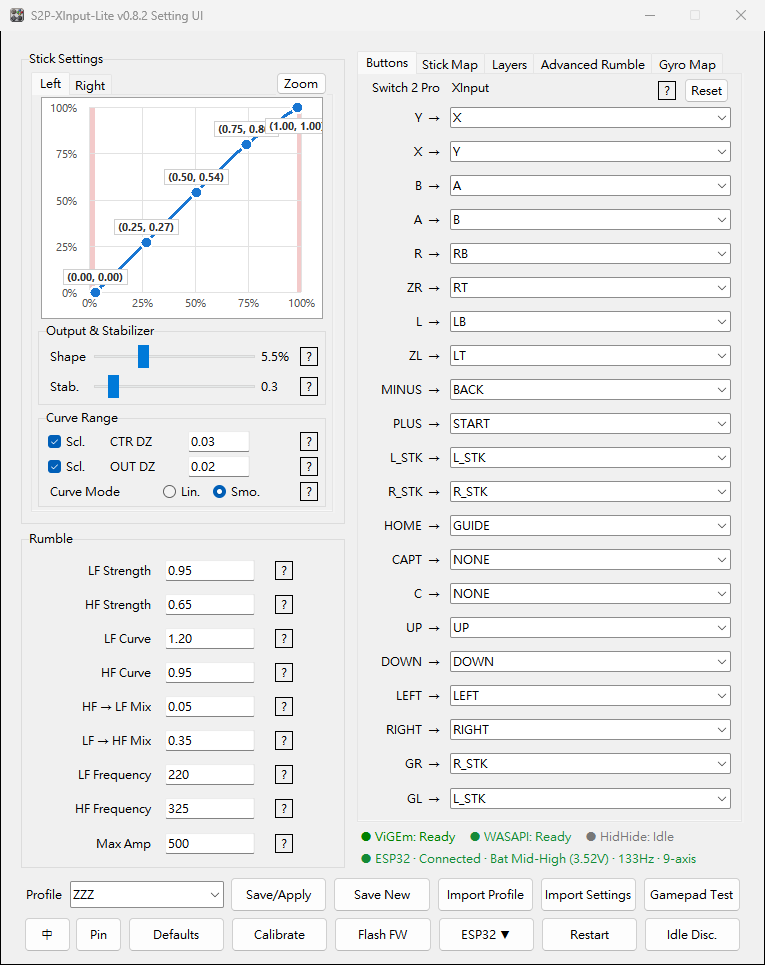
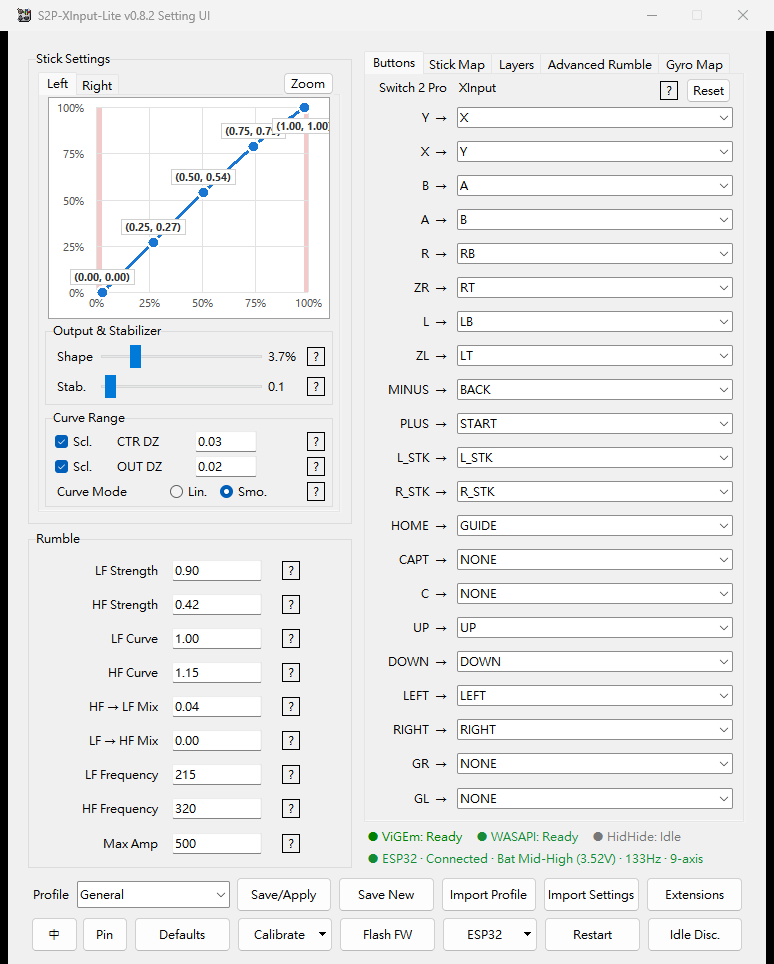
Show the Extensions window and the new footer in the user guide
Section 2.7 now opens with a screenshot of the Extensions window (the
built-in Gamepad Test and a connected tool). The main window screenshot is
retaken for the new footer: Import Profile, Import Settings and Extensions
on the first row, and the Calibrate and ESP32 menus. Both are captured in
English at 100% scale, like the other manual images.

diff --git a/manual/USER_GUIDE.md b/manual/USER_GUIDE.md
@@ -218,6 +218,8 @@ and reconnect.
 
 ### 2.7 Extensions
 
+![The Extensions window with the built-in Gamepad Test and a connected tool](assets/v0.8.2/extensions.png)
+
 S2P can work with separately installed, independent extension tools. A tool
 can only hand button, trigger, and stick states to S2P, or read controller
 state, with the permissions you allow. S2P merges them with the physical
